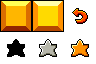
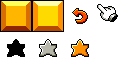
Some graphics

diff --git a/src/levelgrid.go b/src/levelgrid.go
@@ -194,6 +194,11 @@ func (lg *levelGrid) draw(c *core.Canvas, ap *core.AssetPack) {
 
 	c.MoveTo(0, 0)
 
+	// Draw cursor
+	c.DrawBitmapRegion(bmp, 96, 0, 24, 24,
+		lg.cursorRenderCenter.X+8,
+		lg.cursorRenderCenter.Y+4, core.FlipNone)
+
 }
 
 func newLevelGrid(width, height int32) *levelGrid {
@@ -212,6 +217,8 @@ func newLevelGrid(width, height int32) *levelGrid {
 
 		lg.buttons[i] = newLevelButton(int32(i))
 	}
+
+	lg.cursorPos = core.NewPoint(1, 0)
 
 	return lg
 }

diff --git a/src/gamescene.go b/src/gamescene.go
@@ -230,7 +230,7 @@ func (game *gameScene) DrawHUD(c *core.Canvas, ap *core.AssetPack) {
 	// Might need to come up with a better name to
 	// the hardest difficulty...
 	difficultyNames := []string{
-		"Normal", "Hard", "Expert", "Master"}
+		"Easy", "Average", "Hard", "Expert"}
 
 	bmpFont := ap.GetAsset("font").(*core.Bitmap)
 
